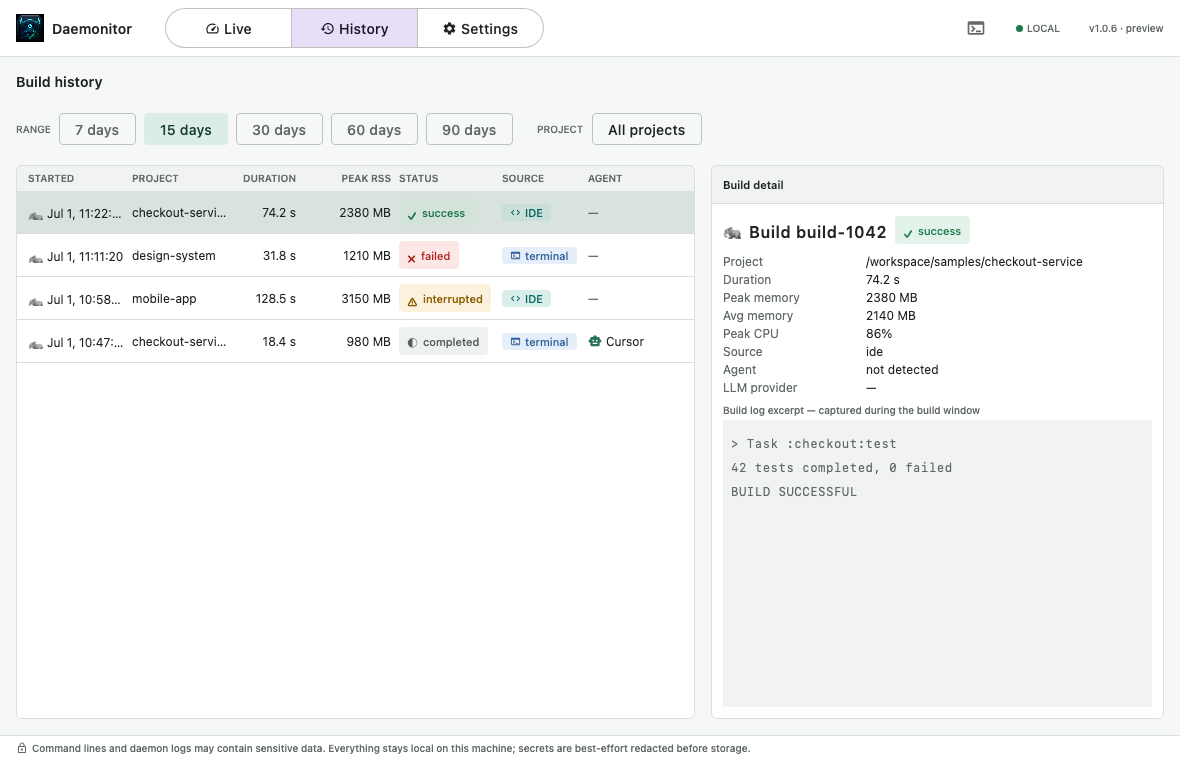
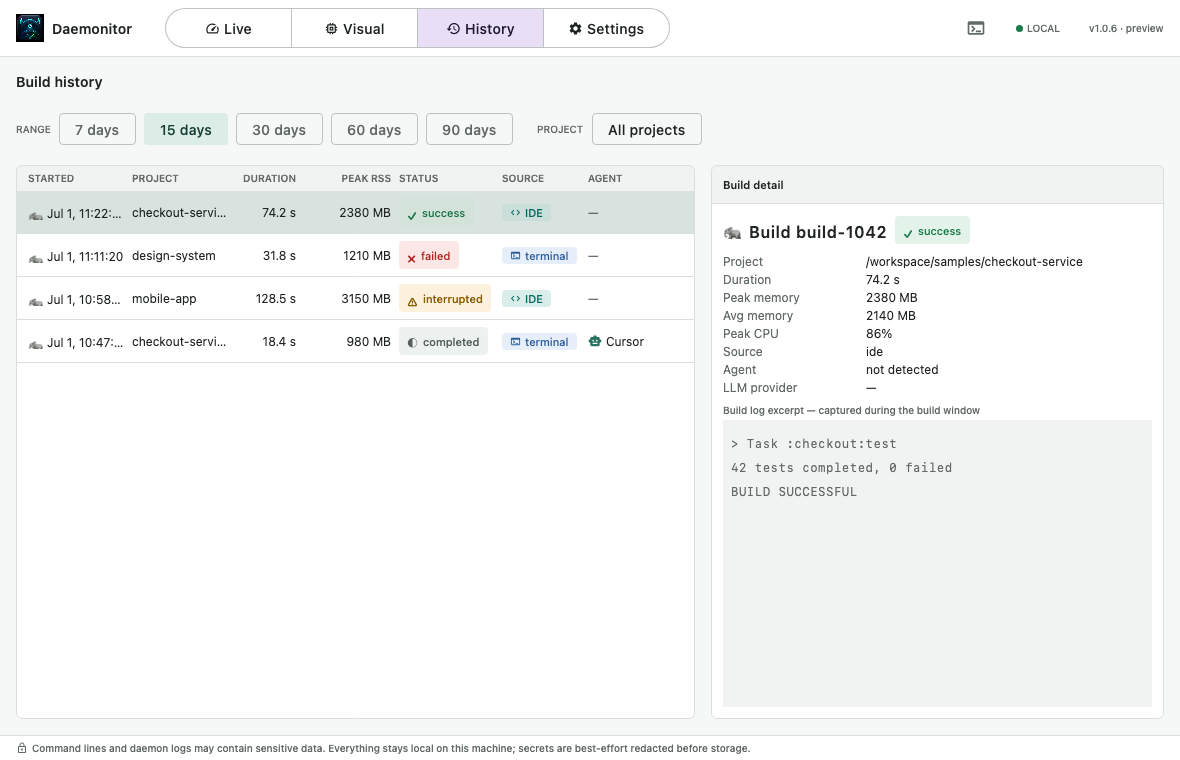
docs: add Visual tab README screenshot
Capture the RSS & Heap process visualizer alongside Live and History docs images.

Changed region(s): [[0.2441, 0.0, 0.5492, 0.0605]]

diff --git a/src/test/kotlin/io/github/cdsap/daemonitor/docs/ReadmeScreenshotCapture.kt b/src/test/kotlin/io/github/cdsap/daemonitor/docs/ReadmeScreenshotCapture.kt
@@ -30,6 +30,7 @@ import io.github.cdsap.daemonitor.ui.live.LiveMonitorScreen
 import io.github.cdsap.daemonitor.ui.live.LiveSummary
 import io.github.cdsap.daemonitor.ui.live.LiveUiState
 import io.github.cdsap.daemonitor.ui.live.ProcessVisualScreen
+import io.github.cdsap.daemonitor.ui.live.RssTimelineSample
 import io.github.cdsap.daemonitor.ui.settings.SettingsScreen
 import io.github.cdsap.daemonitor.ui.settings.SettingsUiState
 import org.junit.jupiter.api.Tag
@@ -52,6 +53,17 @@ class ReadmeScreenshotCapture {
         setContent {
             App(state, HistoryUiState())
         }
+    }
+
+    @Test
+    fun captureVisual() = capture("process-visual.png") {
+        // The scaffold initially composes Live, whose uptime ticker is intentionally infinite.
+        mainClock.autoAdvance = false
+        setContent {
+            App(SampleUi.liveState(), HistoryUiState())
+        }
+        onNodeWithText("Visual").performClick()
+        waitForIdle()
     }
 
     @Test
@@ -126,6 +138,15 @@ internal object SampleUi {
             process(4930, ProcessType.TEST_WORKER, "checkout-service", 768, 71.0, now - 75 * 1_000, "java -Xmx1024m GradleWorkerMain 'Test Executor 2'"),
             process(5077, ProcessType.KOTLIN_DAEMON, "design-system", 544, 9.0, now - 11 * 60 * 1_000, "java -Xmx1536m org.jetbrains.kotlin.daemon.KotlinCompileDaemon"),
         )
+        val endMs = 1_700_000_060_000L
+        fun sample(offsetMs: Long, rssByPid: Map<Long, Long>) = RssTimelineSample(
+            atMs = endMs + offsetMs,
+            totalRssMb = rssByPid.values.sum(),
+            byPid = rssByPid,
+            heapByPid = processes.mapNotNull { process ->
+                process.maxHeapMb?.let { heap -> process.pid to heap }
+            }.toMap(),
+        )
         return LiveUiState(
             processes = processes,
             summary = LiveSummary(4, processes.sumOf { it.rssMemoryMb }, daemon.pid, 2),
@@ -138,6 +159,13 @@ internal object SampleUi {
             ),
             isLoading = false,
             isEmpty = false,
+            rssTimeline = listOf(
+                sample(-24_000, mapOf(4821L to 1980L, 4914L to 540L, 4930L to 610L, 5077L to 480L)),
+                sample(-18_000, mapOf(4821L to 2140L, 4914L to 580L, 4930L to 690L, 5077L to 500L)),
+                sample(-12_000, mapOf(4821L to 2260L, 4914L to 600L, 4930L to 740L, 5077L to 520L)),
+                sample(-6_000, mapOf(4821L to 2310L, 4914L to 608L, 4930L to 760L, 5077L to 536L)),
+                sample(0, processes.associate { it.pid to it.rssMemoryMb }),
+            ),
         )
     }
 

diff --git a/README.md b/README.md
@@ -37,6 +37,16 @@ startup or from Settings, plus installer downloads that you explicitly approve.
 - Per-daemon detail with `-Xmx`, GC, working dir, full (redacted) command line, and a live tail of the daemon log
 - One-click switch to headless mode from the toolbar when you want collection to continue without the desktop window
 
+### Visual
+
+![Daemonitor Visual tab showing per-process RSS and configured heap (-Xmx) timelines](docs/images/process-visual.png)
+
+*Visual timeline of resident memory and configured heap for live Gradle processes.*
+
+- Full-width **RSS & Heap** chart over a rolling window
+- **Solid** series for RSS, **dashed** for configured heap (`-Xmx`) when recoverable
+- Totals plus a legend for every process — click to show/hide series or focus selected heap
+
 ### Historical
 
 ![Daemonitor build history showing status and source tags, agent attribution, metrics, and build details](docs/images/build-history.png)
@@ -219,7 +229,7 @@ Compose screens at the application's native 1180×760 window size. After a visib
 ./gradlew captureReadmeScreenshots test
 ```
 
-Review both files in `docs/images/` before committing. Keep sample paths and logs synthetic; never
+Review the files in `docs/images/` before committing. Keep sample paths and logs synthetic; never
 capture a locally running instance with personal paths, environment values, or command-line secrets.
 
 ---
